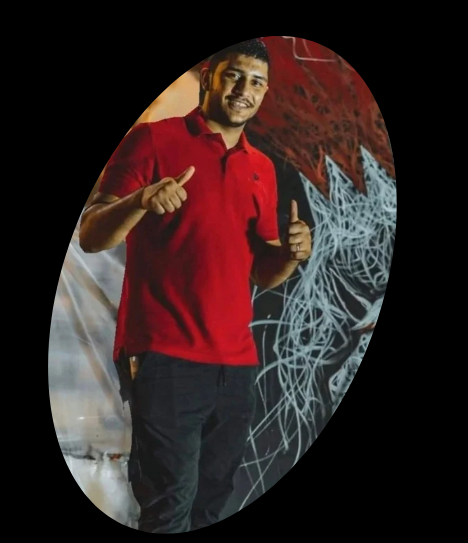
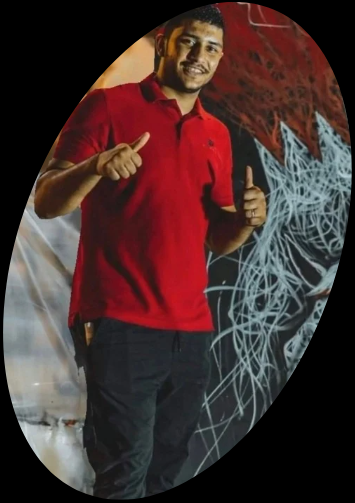
.

diff --git a/style/style.css b/style/style.css
@@ -67,9 +67,9 @@ header {
 
 header .profile-image {
     width: 50%;
-    margin-left:-90px;
+    margin-left:-80px;
     max-width: 400px;
-    margin-bottom:90px;
+    margin-bottom:200px;
     height: auto;
     border-radius: 50%;
 }
@@ -108,9 +108,9 @@ header p {
 .art-gallery {
     display: grid;
     grid-template-columns: repeat(auto-fit, minmax(200px, 1fr));
-    gap: -10px;
+    gap: 10px;
     max-width: 1200px;
-    margin: auto;
+    margin: 20px;
 }
 
 .art-item {
